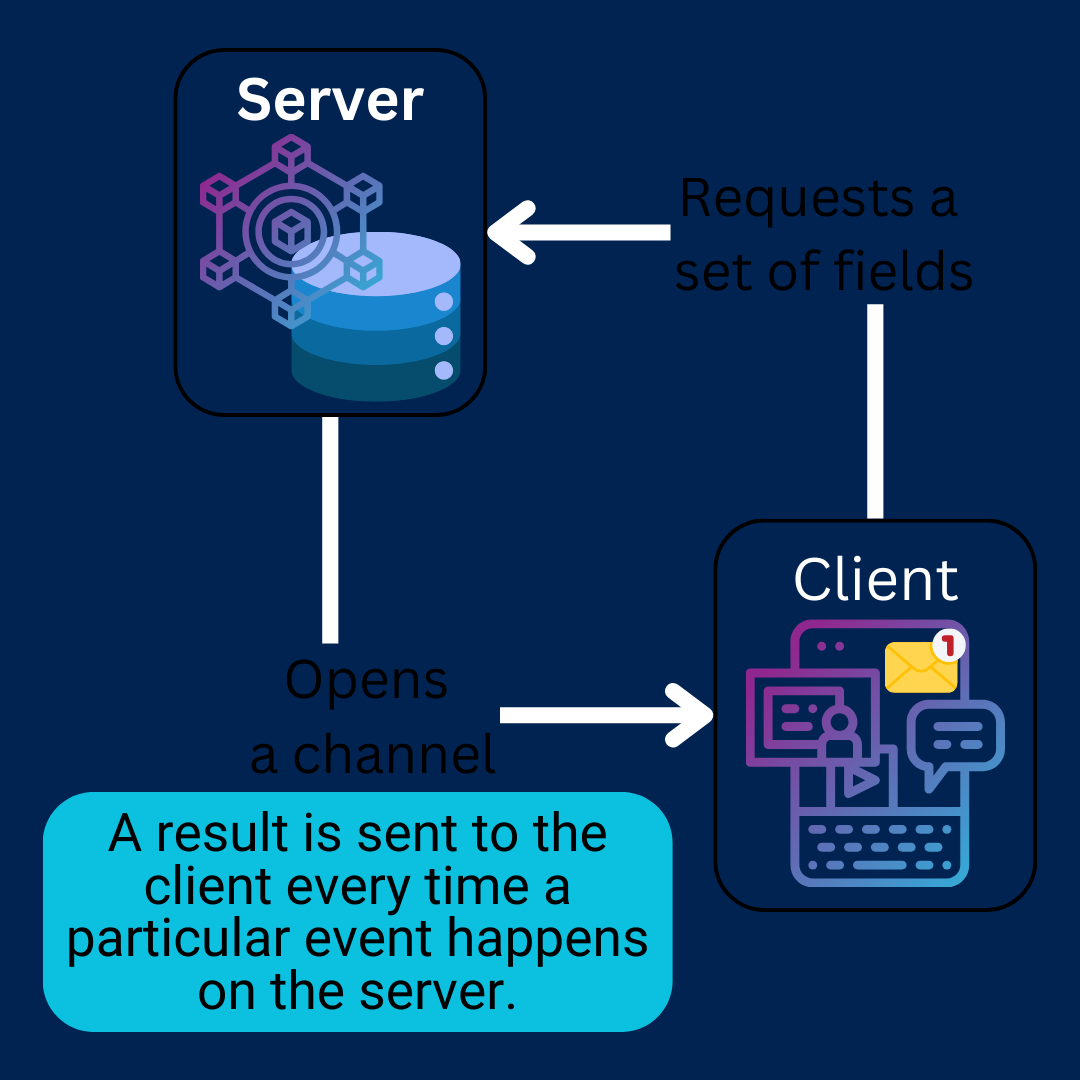
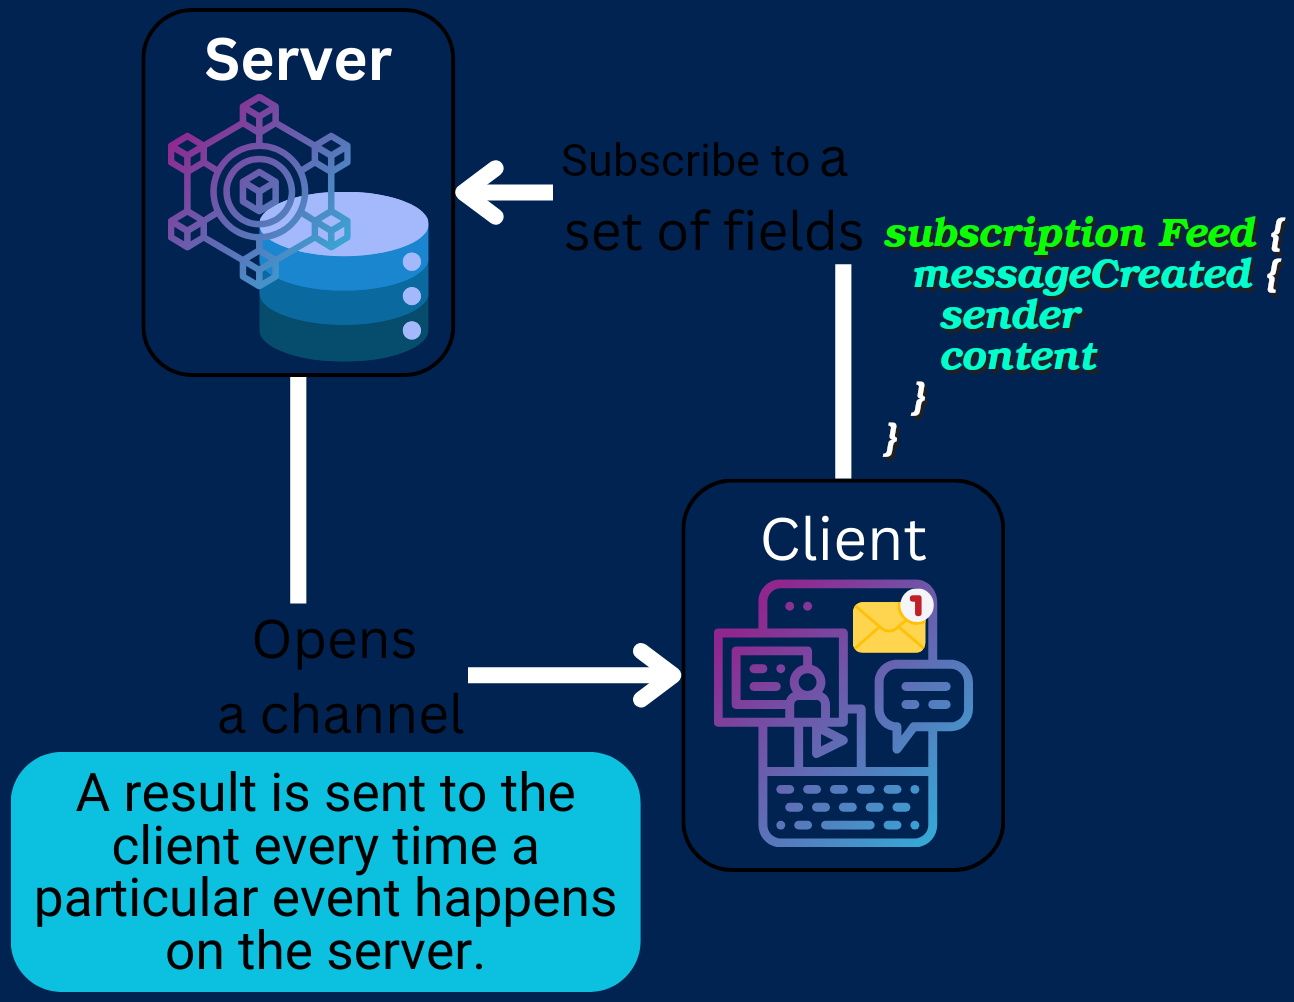
chore: wip subscription

Changed region(s): [[0.0, 0.0, 1.0, 0.99], [0.5194, 0.495, 0.55, 0.5259]]

diff --git a/apps/server-statistics/src/main.ts b/apps/server-statistics/src/main.ts
@@ -1,6 +1,8 @@
 import { ApolloServer } from '@apollo/server';
+import { expressMiddleware } from '@apollo/server/express4';
 import { ApolloServerPluginDrainHttpServer } from '@apollo/server/plugin/drainHttpServer';
 import { makeExecutableSchema } from '@graphql-tools/schema';
+import cors, { CorsRequest } from 'cors';
 import express from 'express';
 import { readFileSync } from 'fs';
 import { useServer } from 'graphql-ws/lib/use/ws';
@@ -10,38 +12,54 @@ import { WebSocketServer } from 'ws';
 import { resolvers } from './resolvers';
 
 const PORT = 4005;
-const app = express();
-const typeDefs = readFileSync(join(__dirname, 'schema.graphql'), {
-  encoding: 'utf8',
-});
-const schema = makeExecutableSchema({ typeDefs, resolvers });
-const httpServer = createServer(app);
-const apolloServer = new ApolloServer({
-  schema,
-  plugins: [
-    ApolloServerPluginDrainHttpServer({ httpServer }),
-    {
-      async serverWillStart() {
-        return {
-          async drainServer() {
-            await serverCleanup.dispose();
-          },
-        };
-      },
-    },
-  ],
-});
-const wsServer = new WebSocketServer({
-  server: httpServer,
-  path: '/subscriptions',
-});
-const serverCleanup = useServer({ schema }, wsServer);
 
-httpServer.listen(
-  PORT,
-  'localhost',
-  console.log.bind(
-    this,
-    `🚀 Apollo serve is up and running on http://localhost:${PORT}`,
-  ),
-);
+(async () => {
+  const app = express();
+  const typeDefs = readFileSync(join(__dirname, 'schema.graphql'), {
+    encoding: 'utf8',
+  });
+  const schema = makeExecutableSchema({ typeDefs, resolvers });
+  const httpServer = createServer(app);
+  const apolloServer = new ApolloServer({
+    schema,
+    plugins: [
+      ApolloServerPluginDrainHttpServer({ httpServer }),
+      {
+        async serverWillStart() {
+          return {
+            async drainServer() {
+              await serverCleanup.dispose();
+            },
+          };
+        },
+      },
+    ],
+  });
+  const wsServer = new WebSocketServer({
+    server: httpServer,
+    path: '/subscriptions',
+  });
+  const serverCleanup = useServer({ schema }, wsServer);
+
+  await apolloServer.start();
+
+  app.use(
+    '/graphql',
+    cors<CorsRequest>({
+      origin: ['http://localhost', 'http://localhost:*'],
+    }),
+    express.json(),
+    expressMiddleware(apolloServer),
+  );
+
+  httpServer.listen(
+    PORT,
+    'localhost',
+    console.log.bind(
+      this,
+      `🚀 Apollo serve is up and running on http://localhost:${PORT}/graphql`,
+    ),
+  );
+})()
+  .then(console.log)
+  .catch(console.error);

diff --git a/docs/subscription.md b/docs/subscription.md
@@ -1,21 +1,44 @@
 # Subscription
 
 - In GraphQL you can:
-  - Fetch data using `query` operation type.
-  - Modify/insert data using `mutation` operation type.
-- But if you need to push data from the server to the clients, that choose to listen to real time messages from the server you need to use `subscription` operation type.
+  - Fetch data using `Query` operation type.
+  - Modify/insert data using `Mutation` operation type.
+- But if you need to push data from the server to the clients, that choose to listen to real time messages from the server, you need to use `Subscription` operation type.
 - More complex to implement, so first [make sure that you need it](#making-sure-that-i-need-subscription).
 - Subscription: long-lasting GraphQL read operations that can update their result whenever a particular server-side event occurs.
   - Done through [The WebSocket protocol](https://developer.mozilla.org/en-US/docs/Web/API/WebSockets_API).
 
-## How `subscription` operation type works
+## How `Subscription` operation type works
 
 - They're similar to `query` operation types.
-- Specify a set of fields to be delivered to the client.
+- It defines top-level **fields that clients can subscribe to**:
+  ```graphql
+  type Subscription {
+    # messageCreated field will update its value whenever a new Message is
+    # created on the backend, thus pushing the Message to subscribing clients.
+    messageCreated: Message
+  }
+  ```
 - Open a channel in the backend on the server.
 - A result is sent to the client every time a particular event happens on the server.
 
 ![Client specifies a set of fields to be delivered to the client, but instead of immediately returning a single answer, a channel is opened and a result is sent to the client every time a particular event happens on the server](./assets/server-clien-graphql-subscription.png)
+
+> [!IMPORTANT]
+>
+> Each `subscription` operation can subscribe to only one top-level field of the `Subscription` type. Meaning the following subscription operation is not valid:
+>
+> ```graphql
+> subscription IndexPageEvents {
+>   notificationCreated {
+>     id
+>   }
+>   postCreated {
+>     author
+>     comment
+>   }
+> }
+> ```
 
 ## Making sure that I need subscription
 

diff --git a/.github/README.md b/.github/README.md
@@ -24,7 +24,7 @@ You can find a good definition usually in [glossary](../docs/glossary.md).
 7. [Document your GraphQL service API](../docs/documentation.md).
 8. [GraphQL request lifecycle](./docs/graphql-req-lifecycle.md).
 9. [How to query information about a GraphQL schema](../docs/introspection.md).
-10. [Improve developer experience](../docs/improve-dev-exp.md)
+10. [Improve developer experience](../docs/improve-dev-exp.md).
 11. [Security in GraphQL](./docs/security.md).
 12. [NestJS](../docs/nestjs.md).
 13. [Subscription](../docs/subscription.md)

diff --git a/index.md b/index.md
@@ -20,7 +20,7 @@ You can find a good definition usually in [glossary](./docs/glossary.md).
 7. [Document your GraphQL service API](./docs/documentation.md).
 8. [GraphQL request lifecycle](./docs/graphql-req-lifecycle.md).
 9. [How to query information about a GraphQL schema](./docs/introspection.md).
-10. [Improve developer experience](./docs/improve-dev-exp.md)
+10. [Improve developer experience](./docs/improve-dev-exp.md).
 11. [Security in GraphQL](./docs/security.md).
 12. [NestJS](./docs/nestjs.md).
 13. [Subscription](./docs/subscription.md)
